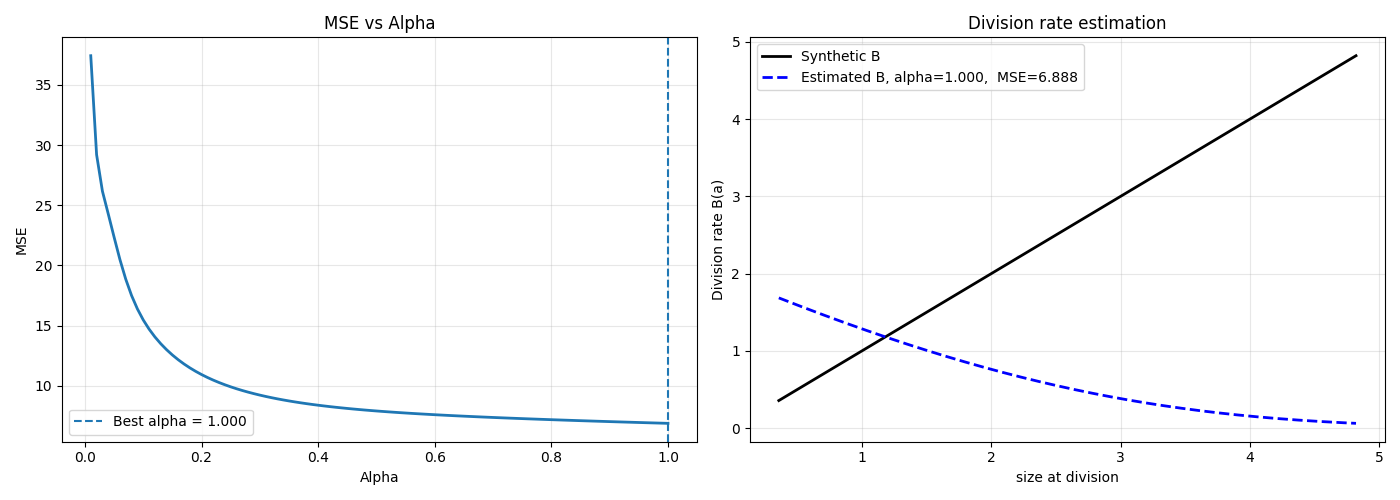
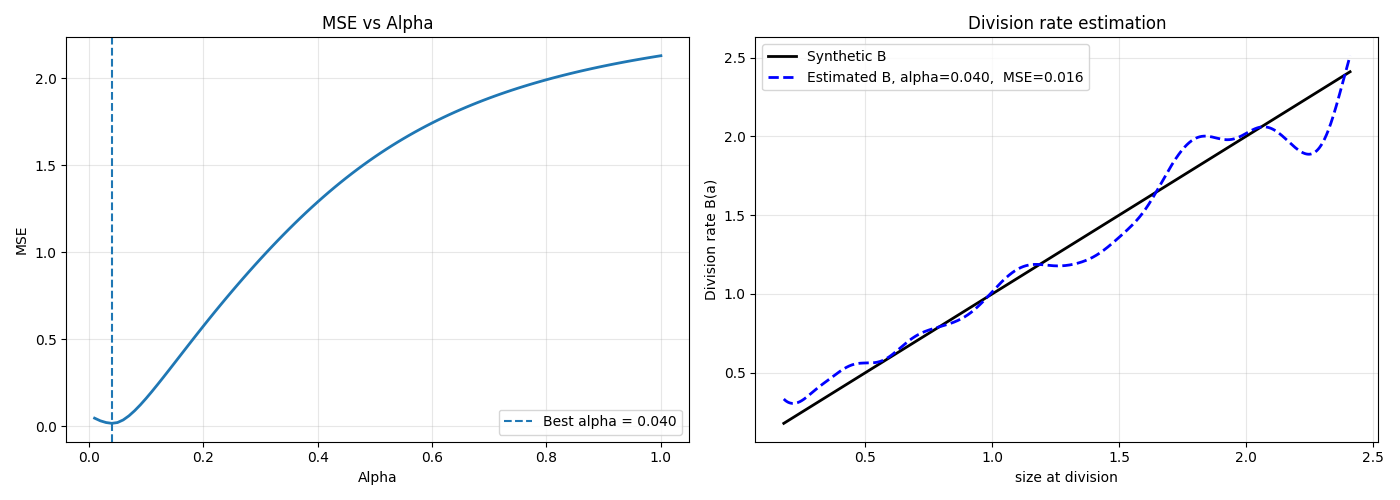
error corrected: estimator needed size at birth

diff --git a/estimators.py b/estimators.py
@@ -43,13 +43,13 @@ def B_lineage_size(observations, alpha):
 
     for x in x_grid:
         z1 = (x - obs)/alpha
-        z2 = (x - 2*obs)/alpha
-        numer = np.sum(gaussian_kernel(x-obs, alpha))
+        z2 = (x/2 - obs)/alpha
+        numer = np.sum(gaussian_kernel(x/2-obs, alpha))
         denom = np.sum(norm.cdf(z1) - norm.cdf(z2))
         numer_list.append(numer)
         denom_list.append(denom)
 
-    B_hat = np.array(numer_list) / np.array(denom_list)
+    B_hat = 0.5*np.array(numer_list) / np.array(denom_list)
 
     return B_hat
 
@@ -109,7 +109,7 @@ if __name__ == '__main__':
     if test_size:
         PATH_SYNTH_SIZE_LIN = "data/synthetic_lin_size_model.txt"
         synth_lin_size = pd.read_csv(PATH_SYNTH_SIZE_LIN, header=None, names=["ad", "sb", "sd"])
-        synth_real_sizes = synth_lin_size["sd"]
+        synth_real_sizes = synth_lin_size["sb"]
         
         verify_estimator(B_lineage_size, B_power, synth_real_sizes, "size")
 
